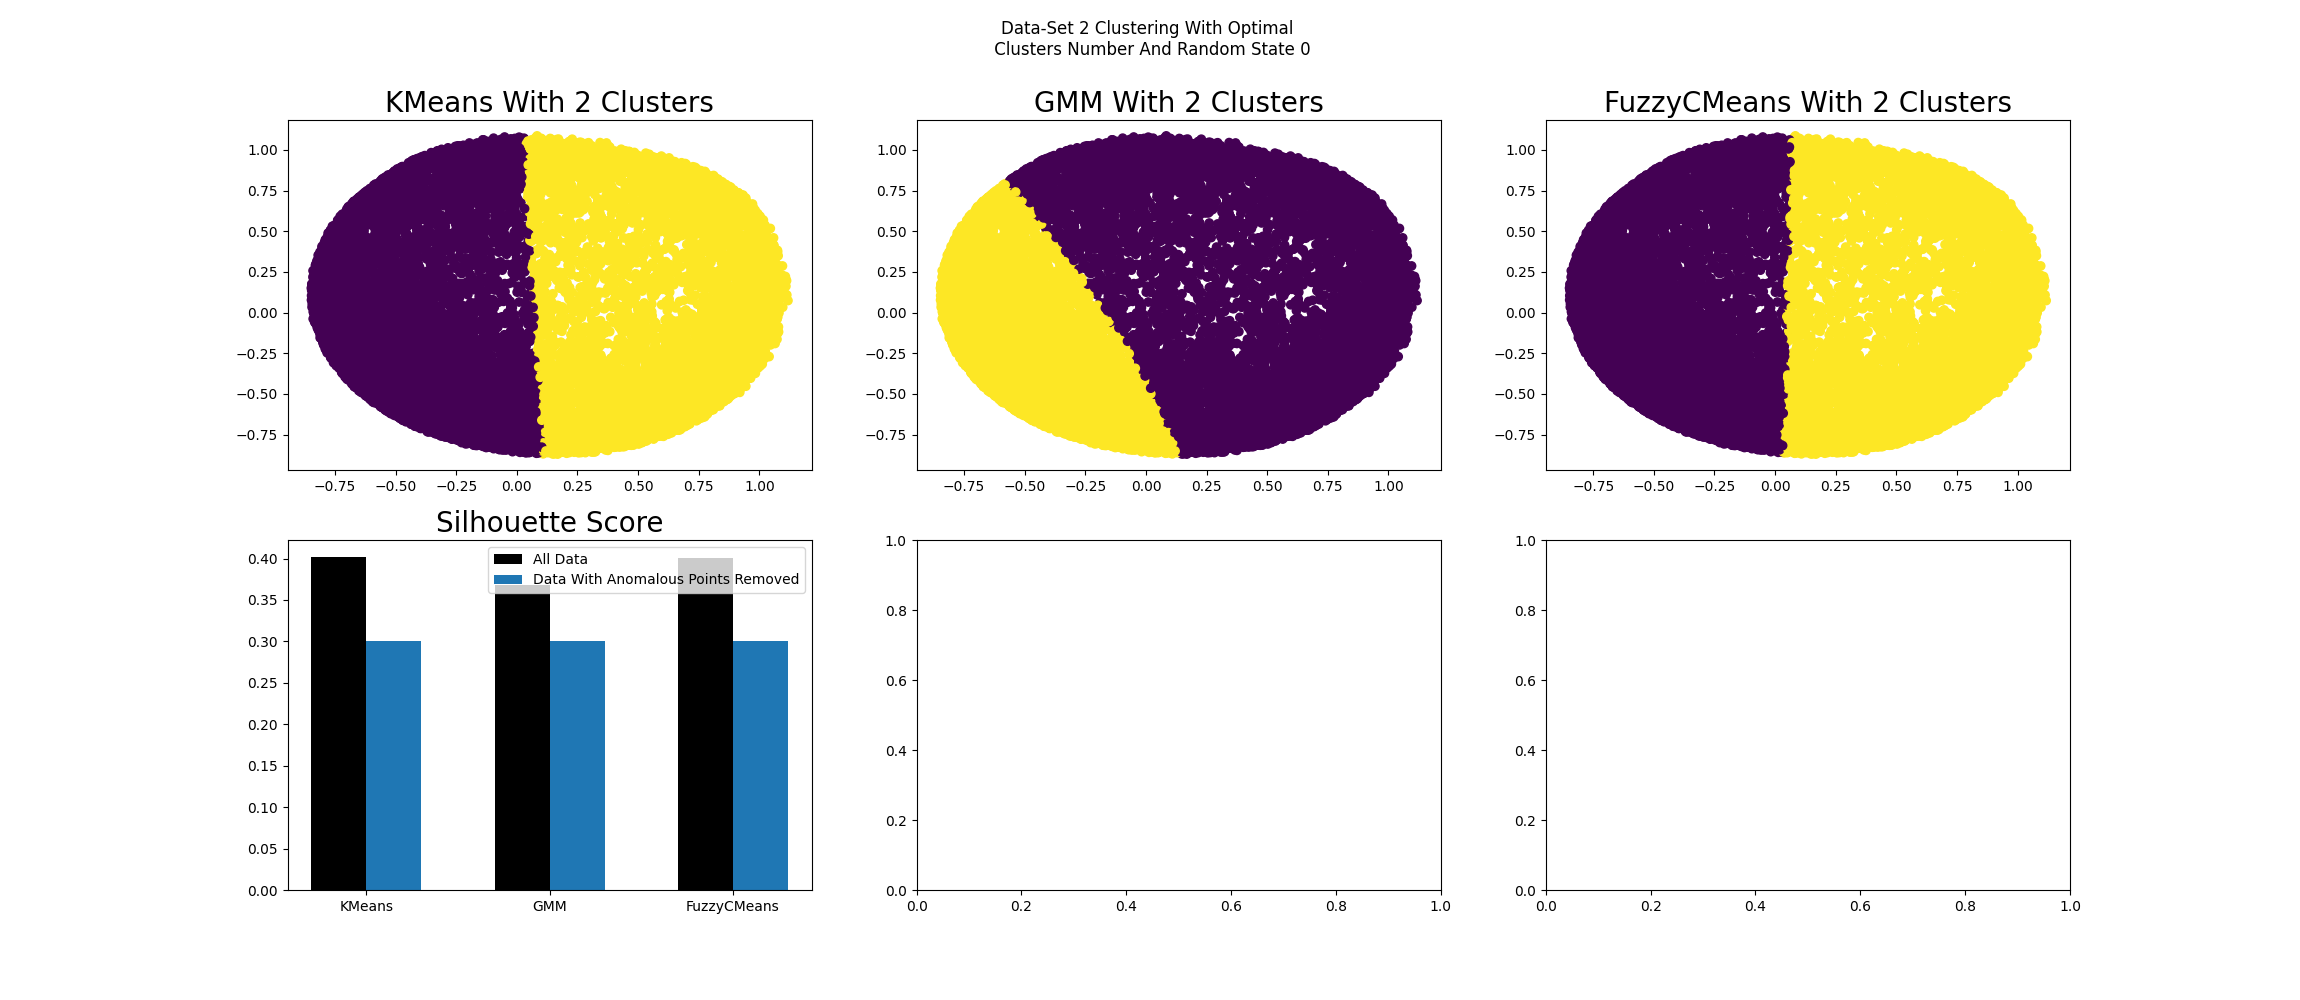
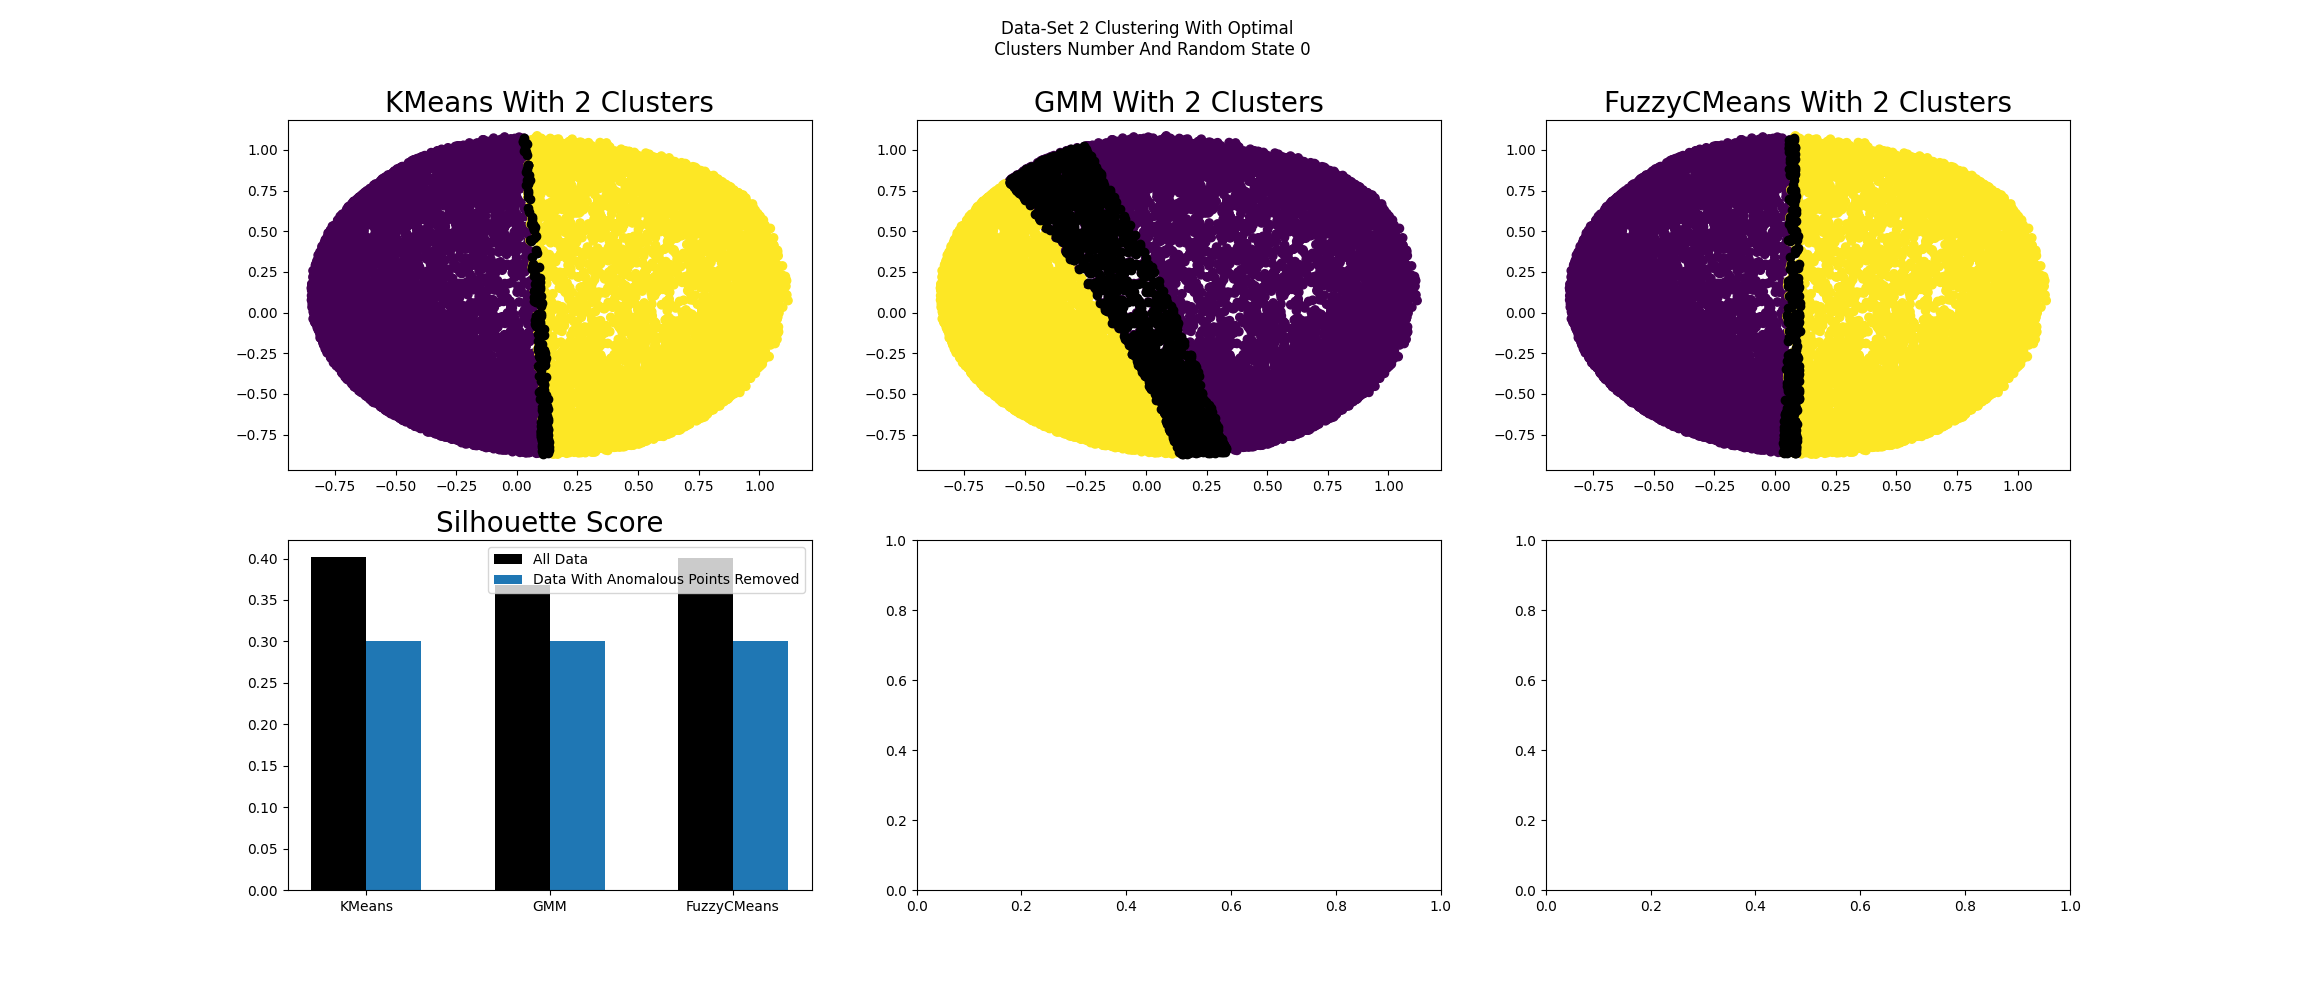
start anomaly compare

Changed region(s): [[0.4322, 0.124, 0.5557, 0.465], [0.7717, 0.124, 0.8026, 0.465], [0.2161, 0.124, 0.247, 0.465]]

diff --git a/FinalAssignment/Code/OptimalNClusters.py b/FinalAssignment/Code/OptimalNClusters.py
@@ -3,6 +3,7 @@ from statistics import mode
 import matplotlib.pyplot as plt
 import numpy as np
 import pandas as pd
+import os
 
 import DatasetsImportFile
 import ClusteringAlgorithmsImportFile
@@ -51,7 +52,7 @@ class OptimalNClusters:
         self.min_n_clusters = min_n_clusters
         self.max_n_clusters = max_n_clusters
         self.random_state_list = GlobalParameters.random_state_list[:2]
-        self.clusteringAlgorithmList = clusteringAlgorithmList[0:2]
+        self.clusteringAlgorithmList = clusteringAlgorithmList[:2]
 
     def runRandomStates(self, dataset, min_n_clusters: int, maxNClusters: int, randomStateList: list):
         """
@@ -109,13 +110,13 @@ class OptimalNClusters:
             sillScoreList = []
             clusterAlgo.setDataFrame(dataset.get_data_frame())
             for nClusters in nClustersRange:
-                print(f"{clusterAlgo.getName()} Clustering dataset {dataset_index} with {nClusters} Clusters and Random state {randomState}")
+                print(f"{clusterAlgo.get_name()} Clustering dataset {dataset_index} with {nClusters} Clusters and Random state {randomState}")
                 clusterAlgo.setNClusters(nClusters)
                 clusterAlgo.createLabels()
                 sillScore = clusterAlgo.getSilhouetteScore()
                 sillScoreList.append(sillScore)
 
-            algoNameSillScoreDict[clusterAlgo.getName()] = sillScoreList
+            algoNameSillScoreDict[clusterAlgo.get_name()] = sillScoreList
 
         for name, sillScoreList in algoNameSillScoreDict.items():
             plt.plot(nClustersRange, sillScoreList, 'o-', label=name)
@@ -147,7 +148,7 @@ class OptimalNClusters:
             temp_df = self.run_n_clusters_on_cluster_algo(cluster_algo_obj)
 
             mean_sil_score_list = list(temp_df.loc['Mean'])
-            plt.plot(n_clusters_range, mean_sil_score_list, 'o-', label=cluster_algo_obj.getName())
+            plt.plot(n_clusters_range, mean_sil_score_list, 'o-', label=cluster_algo_obj.get_name())
 
         ############################## plotting.
         plt.legend()
@@ -162,7 +163,11 @@ class OptimalNClusters:
         plt.savefig(file_path)
         plt.close()
         
-
+    def get_cluster_algo_csv_file_path(self, algo_name):
+        file_name = f"{self.min_n_clusters}-{self.max_n_clusters}ClusterRange{len(self.random_state_list)}RandomStates{algo_name}.csv"
+        csv_file_path = get_optimal_n_clusters_file_path(file_name, self.dataset.get_index())
+        return csv_file_path
+    
     def run_n_clusters_on_cluster_algo(self, cluster_algo_obj):
         random_state_sil_score_df = pd.DataFrame()
 
@@ -179,22 +184,21 @@ class OptimalNClusters:
         df_to_save['max_value_n_clusters'] = maxList
 
         ##################################### save results
-        file_name = f"{self.min_n_clusters}-{self.max_n_clusters}ClusterRange{len(self.random_state_list)}RandomStates{cluster_algo_obj.getName()}.csv"
-        csv_file_path = get_optimal_n_clusters_file_path(file_name, self.dataset.get_index())
+        csv_file_path = self.get_cluster_algo_csv_file_path(cluster_algo_obj.get_name())
         df_to_save.to_csv(csv_file_path)
 
         return random_state_sil_score_df
 
-    def get_silhouetter_score_df(self, clusterAlgo, n_classes):
+    def get_silhouetter_score_df(self, clusterAlgo, n_clusters):
         dataset_df = self.dataset.get_data_frame()
-        clusterAlgo.setNClusters(n_classes)
+        clusterAlgo.setNClusters(n_clusters)
         clusterAlgo.setDataFrame(dataset_df)
 
         silhouette_score_list = []
 
 
         for random_state in self.random_state_list:
-            print(clusterAlgo.getName(), "with", n_classes, "clusters and random state", random_state)
+            print(clusterAlgo.get_name(), "with", n_clusters, "clusters and random state", random_state)
             clusterAlgo.setRandomState(random_state)
             clusterAlgo.createLabels()
             temp_sil_score = clusterAlgo.getSilhouetteScore()
@@ -208,21 +212,47 @@ class OptimalNClusters:
         result_df['T-Statistics'] = stat
 
         result_df = result_df.T
-        result_df.rename(columns = {0 : n_classes}, inplace = True)
+        result_df.rename(columns = {0 : n_clusters}, inplace = True)
         
         return result_df        
     
+
+    def run_anomaly(self):
+        n_clusters = self.dataset.get_n_clusters()
+        result_df = pd.DataFrame()
+        for cluster_algo_obj in self.clusteringAlgorithmList:
+            csv_file_path = self.get_cluster_algo_csv_file_path(cluster_algo_obj.get_name())
+            if os.path.isfile(csv_file_path):
+                print("reading from memory")
+                all_data_sil_score_df = pd.read_csv(csv_file_path)[str(n_clusters)]
+            else:
+                all_data_sil_score_df = self.get_silhouetter_score_df(cluster_algo_obj, n_clusters)
+
+            _, clean_data_df = cluster_algo_obj.get_anomalous_dataframe_negative_silhouette_coefficients(self.dataset)
+            self.dataset.set_dataframe(clean_data_df)
+
+            clean_data_sil_score_df = self.get_silhouetter_score_df(cluster_algo_obj, n_clusters)
+
+            temp_diff_sil_score_df = clean_data_sil_score_df - all_data_sil_score_df
+            print(cluster_algo_obj.get_name(), temp_diff_sil_score_df)
+            if result_df.empty:
+                result_df = temp_diff_sil_score_df
+            else:
+                result_df = pd.concat([result_df, temp_diff_sil_score_df], axis = 1)
+        print(result_df)
+
 if __name__ == "__main__":
 
     ################### try 3 more clusters.
     num_n_clusters_tries = 1
     for ds in DatasetsImportFile.dataset_obj_list[1:2]:
         ds.prepareDataset()
-        num_classes = ds.get_n_classes()
+        num_classes = ds.get_n_clusters()
         
         onc = OptimalNClusters(ds, num_classes, num_classes + num_n_clusters_tries)
         
         # onc.run_stat_test(clustering_algorithm_obj_list[0], num_classes+1)
         # onc.run_n_clusters_on_cluster_algo(clustering_algorithm_obj_list[0])
-        onc.run_all()
+        # onc.run_all()
+        onc.run_anomaly()
         # onc.runRandomStates(ds, num_classes, (num_classes + num_n_clusters_tries), random_state_list[0:3])

diff --git a/FinalAssignment/Code/PlotClusters.py b/FinalAssignment/Code/PlotClusters.py
@@ -43,7 +43,7 @@ class PlotClusters():
         datasetIndex = dataSet.get_index()
         data = dataSet.get_data_frame()
         algoNameSilhouetteScoreDict = {}
-        algoNameSilhouetteScore_after_remove_outliers_dict = {}
+        clean_data_algo_name_sil_score_dict = {}
         randomState = GlobalParameters.random_state
         nrows = 2
         ncols = 3
@@ -58,7 +58,7 @@ class PlotClusters():
         for clusterAlgo in self.clusteringAlgorithms[0:3]:
             clusterAlgo.setDataFrame(data)
             # clusterAlgo.setNClustersDatasetIndex(datasetIndex)
-            clusterAlgo.setNClusters(dataSet.get_n_classes())
+            clusterAlgo.setNClusters(dataSet.get_n_clusters())
             algoNameSilhouetteScoreDict[clusterAlgo.name] = clusterAlgo.getSilhouetteScoreList(
                 [randomState])[0]  # function gets a list and returns a list.
             labels = clusterAlgo.getLabels()
@@ -68,12 +68,12 @@ class PlotClusters():
                 anomalous_points_df, regular_points_df = clusterAlgo.get_anomalous_dataframe_negative_silhouette_coefficients(dataSet)
                 clusterAlgo.setDataFrame(regular_points_df)
 
-                algoNameSilhouetteScore_after_remove_outliers_dict[clusterAlgo.name] = clusterAlgo.getSilhouetteScoreList(
+                clean_data_algo_name_sil_score_dict[clusterAlgo.name] = clusterAlgo.getSilhouetteScoreList(
                 [randomState])[0]
                 
                 ax[i, j].scatter(anomalous_points_df['dim1'], anomalous_points_df['dim2'], c='black')
             
-                algoNameSilhouetteScore_after_remove_outliers_dict[clusterAlgo.name] = 0.3
+                clean_data_algo_name_sil_score_dict[clusterAlgo.name] = 0.3
 
             ax[i, j].set_title(
                 f"{clusterAlgo.name} With {clusterAlgo.getNClusters()} Clusters", fontsize=fontsize)
@@ -89,7 +89,7 @@ class PlotClusters():
         width = 0.3
         if self.is_remove_outliers:
             ax[i, j].bar(x - width/2, algoNameSilhouetteScoreDict.values(), width=width, color='black', label='All Data')
-            ax[i, j].bar(x + width/2, algoNameSilhouetteScore_after_remove_outliers_dict.values(), width=width, label = 'Data With Anomalous Points Removed')
+            ax[i, j].bar(x + width/2, clean_data_algo_name_sil_score_dict.values(), width=width, label = 'Data With Anomalous Points Removed')
             ax[i, j].set_xticks(x)
             ax[i, j].set_xticklabels(labels)
             ax[i, j].legend()

diff --git a/FinalAssignment/Code/ClusteringAlgorithmInterface.py b/FinalAssignment/Code/ClusteringAlgorithmInterface.py
@@ -1,6 +1,6 @@
 import os
 from collections import Counter
-
+from typing import Tuple
 import numpy as np
 import pandas as pd
 from scipy.stats import entropy
@@ -87,7 +87,7 @@ class ClusteringAlgorithm:
         """
         return self.nClusters
 
-    def getName(self) -> str:
+    def get_name(self) -> str:
         """
 
         Returns:
@@ -218,7 +218,7 @@ class ClusteringAlgorithm:
             print(f"Random State Doesn't make a change for {self.getName()}")
         return silhouetteList
 
-    def get_anomalous_dataframe_negative_silhouette_coefficients(self, dataset):
+    def get_anomalous_dataframe_negative_silhouette_coefficients(self, dataset) -> Tuple[pd.DataFrame, pd.DataFrame]:
         
         anomalous_points_df = pd.DataFrame()
         dataset_df = dataset.get_data_frame().copy()

diff --git a/FinalAssignment/Code/GlobalParameters.py b/FinalAssignment/Code/GlobalParameters.py
@@ -35,5 +35,4 @@ random_state = 0
 randomStateList = [68, 123, 4255, 17, 1, 63, 11, 77, 4, 453, 537, 5323, 3, 42, 323, 21, 617, 7, 0, 1234, 9, 61, 57, 583, 19, 12345, 3,
                    14, 4257, 5]
 
-random_state_list = [68, 123, 4255, 17, 1, 63, 11, 77, 4, 453, 537, 5323, 3, 42, 323, 21, 617, 7, 0, 1234, 9, 61, 57, 583, 19, 12345, 3,
-                   14, 4257, 5]
+random_state_list = [68, 123, 4255, 17, 1, 63, 11, 77, 4, 453, 537, 5323, 3, 42, 323, 21, 617, 7, 0, 1234, 9, 61, 57, 583, 19, 12345, 3, 14, 4257, 5]

diff --git a/FinalAssignment/Code/DatasetInterface.py b/FinalAssignment/Code/DatasetInterface.py
@@ -70,7 +70,7 @@ class Dataset:
         """
         return self.index
 
-    def get_n_classes(self) -> int:
+    def get_n_clusters(self) -> int:
         """
         Returns:
             int: n_class - number of classes for the dataset.
@@ -86,3 +86,5 @@ class Dataset:
         non_na_number_rows = int(num_columns * precent_fraction)
         self.df.dropna(axis = 0, thresh = int(non_na_number_rows), inplace = True)
 
+    def set_dataframe(self, df):
+        self.df = df
